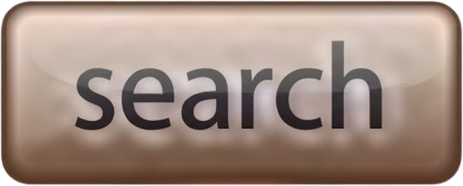
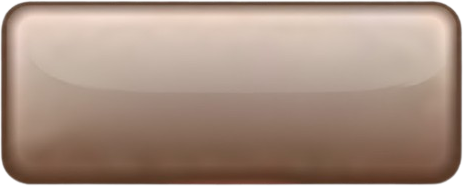
atualização no widget

diff --git a/style.css b/style.css
@@ -33,7 +33,7 @@ body {
 
 /*banner gossip girl*/
 header img {
-    width: 800px; 
+    width: 800px; /*testar com  63vw;*/
     height: auto;
     display: block;
     margin: 0 auto; 
@@ -164,10 +164,10 @@ nav.nav-circles a {
     color: #000;
     font-family: 'Quicksand';
     font-weight: 600;
-    font-size: 1rem;
+    font-size: 0.85rem;
     letter-spacing: 1px;
     justify-content: flex-end;
-    padding: 5px 0px 6px 0px;
+    padding: 0px 0px 10px 0px;
     transition: transform 0.3s, background-color 0.3s;
 }
 
@@ -177,7 +177,6 @@ nav.nav-circles img {
     height: 60px;
     border-radius: 100%;
     object-fit: cover;
-    margin: 100px 0px 0px 0px;
     filter: grayscale(50%);
 }
 
@@ -193,6 +192,7 @@ div.widget-map {
     border-radius: 20px;
     padding: 10px 10px 20px 10px;
     width: 130px;
+    height: 470px;
     margin: 30px auto 0 auto;
     display: flex;
     flex-direction: column;
@@ -258,28 +258,40 @@ input.barra-de-pesquisa {
     background-color: #ffffff;
 }
 
-button.search-button {
-    background: url('./assets/imgs/widget_button_search.png');
-    background-size: contain;
+button {
+    font-family: 'Urbanist', sans-serif;
+    font-size: 0.8rem;
+    color: #000;
+    text-shadow: #ffffff 1px 0px 2px;
+    margin: 8px auto 0px auto;
+    transition: opacity 0.2s;
     border: none;
     padding: 0;
     cursor: pointer;
     display: block; 
-    width: 59px; 
-    height: 24px;
-    margin: 8px auto 0px auto;
-    transition: opacity 0.2s;
-    box-shadow: 0px 2px 5px rgb(61, 43, 2);
-    border-radius: 5px;
 }
 
-button.search-button:hover {
+button:hover {
     opacity: 0.85;
+}
+
+button.search-button {
+    background: url('./assets/imgs/widget_button_search.png') center no-repeat;
+    background-size: contain;
+    width: 70px; 
+    height: 30px;
+}
+
+button.upload-button {
+    background: url('./assets/imgs/widget_button_upload.png') no-repeat center;
+    background-size: contain;
+    width: 100px; 
+    height: 30px;
 }
 
 
 div.map {
-    width: 100%;
+    width: auto;
     height: 130px;
     margin: 10px auto 0 auto;
     background: url('./assets/imgs/widget_map.png');
@@ -287,48 +299,12 @@ div.map {
     background-position: center;
 }
 
-button.upload-button {
-    background: url('./assets/imgs/widget_button_upload.png') no-repeat center;
-    background-size: contain;
-    border: none;
-    padding: 0;
-    cursor: pointer;
-    display: block; 
-    width: 100px; 
-    height: 28px;
-    margin: 8px auto 0px auto;
-    transition: opacity 0.2s;
-    box-shadow: 0px 2px 5px rgb(61, 43, 2);
-    border-radius: 7px;
+/*responsividade notebook*/
+@media (max-width: 1280px) {
+
+body {
+    background-size: 150%;
+    background-position: top;
 }
 
-button.upload-button:hover {
-    opacity: 0.9;
-}
-
-/* --- MEDIA QUERIES (Para Responsividade) --- */
-@media (max-width: 900px) {
-    .blog-content {
-        flex-direction: column;
-        align-items: center;
-        gap: 20px;
-    }
-
-    .sidebar-left, .sidebar-right {
-        flex-basis: auto;
-        width: 100%;
-        max-width: 650px; /* Limita a largura em telas menores */
-    }
-
-    .sidebar-right {
-        order: -1; /* Move os círculos para cima em telas menores */
-        display: flex;
-        justify-content: space-around;
-        padding-top: 0;
-    }
-
-    .blog-header h1 {
-        font-size: 15vw;
-        letter-spacing: 3vw;
-    }
 }

diff --git a/index.html b/index.html
@@ -80,9 +80,9 @@
                 <aside class="sidebar-right">
                     <nav class="nav-circles">
                         <a href="#"><img src="./assets/imgs/icon_home.png" alt="Home"><span>home</span></a>
-                        <a href="#"><img src="./assets/imgs/icon_posts.png" alt="Posts"><span>posts</span></a>
-                        <a href="#"><img src="./assets/imgs/icon_pics.png" alt="Pics"><span>pics</span></a>
-                        <a href="#"><img src="./assets/imgs/icon_links.jpg" alt="Links"><span>links</span></a>
+                        <a href="#"><img src="./assets/imgs/icon_posts.png" alt="About"><span>about</span></a>
+                        <a href="#"><img src="./assets/imgs/icon_pics.png" alt="Portfolio"><span>portfolio</span></a>
+                        <a href="#"><img src="./assets/imgs/icon_links.jpg" alt="Github"><span>github</span></a>
                     </nav>
                     
                     <div class="widget-map">gossip girl
@@ -95,16 +95,16 @@
                         <span class="upper-east-sider">upper east sider</span>
 
                         <input type="text" class="barra-de-pesquisa" placeholder=" " title="Digite sua pesquisa">
-                            <button class="search-button"></button>
+                            <button class="search-button">search</button>
                         <hr>
 
                         <div class="map"></div>
 
                         <input type="text" class="barra-de-pesquisa" style="filter: sepia(100%);" placeholder=" " title="Digite sua pesquisa">
-                            <button class="search-button"></button>
+                            <button class="search-button">search</button>
                         <hr>
 
-                        <button class="upload-button"></button>
+                        <button class="upload-button">gossip upload</button>
 
                     </div>
                 </aside>
